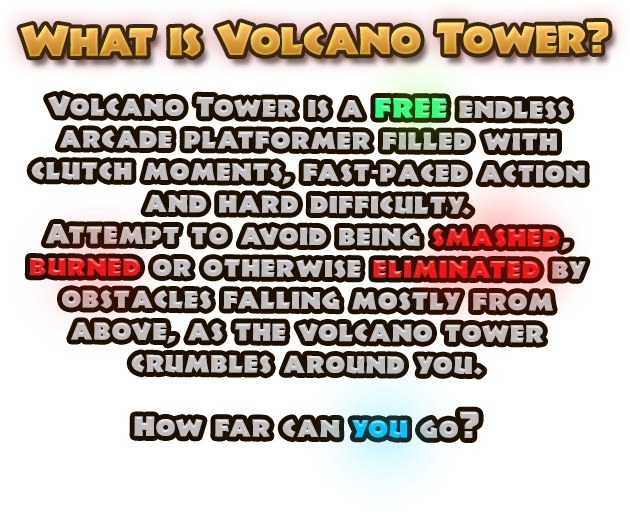
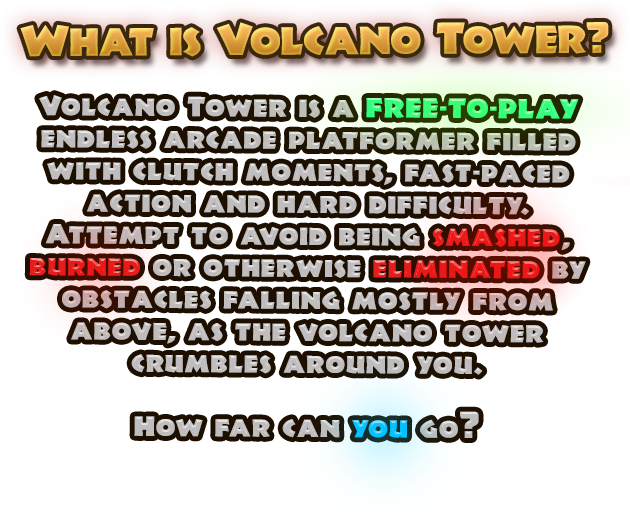
Update site
Add social links
Update text
Replace badges (temporarily) with 'coming soon'.

Changed region(s): [[0.0302, 0.1536, 0.9349, 0.4299]]

diff --git a/index.html b/index.html
@@ -1,13 +1,21 @@
 <!DOCTYPE html>
 <html>
+<head>
 <link rel="stylesheet" type="text/css" href="style.css">
+<meta name="viewport" content="width=800, initial-scale=1">
+</head>
 <body align="center">
 <div class="all">
 
+<div id="comingsoon">
+<img src="comingsoon.png"/>
+</div>
+<!--
 <div id="badges">
 	<a target="_blank" href="https://itunes.apple.com/app/id1350250773"><img src="appstores_apple.png"/></a>
 	<a target="_blank" href="https://play.google.com/store/apps/details?id=com.retrom.volcano"><img src="appstores_android.png"/></a>
 </div>
+-->
 
 <div id="video">
 <img src="video_frame.png" id="frame">
@@ -17,6 +25,11 @@
 <div id="description">
 <img src="text_whatisvolcanotower.png"><br>
 <img src="screenshots.png">
+</div>
+<div id="social">
+	<a target="_blank" href="http://www.facebook.com/VolcanoTower/"><img src="icons_facebook.png"/></a>
+	<a target="_blank" href="http://twitter.com/UglyCakeGames"><img src="icons_twitter.png"/></a>
+	<a target="_blank" href="http://www.instagram.com/uglycakegames/"><img src="icons_instagram.png"/></a>
 </div>
 
 </div>

diff --git a/style.css b/style.css
@@ -1,5 +1,5 @@
 body {
-  	background: #000000 url("bg.jpg") repeat-y center top;
+  	background: #000000 url("bg.jpg") no-repeat center top;
 	align: center;
 }
 
@@ -19,13 +19,22 @@ div#badges {
 	margin-top: 270px;
 }
 
+
 #badges img {
 	margin: 14px
 }
 
+div#comingsoon {
+	margin-top: 240px;
+}
+
+#comingsoon img {
+	margin: 20px
+}
+
 div#video {
 	align: left;
-	margin-top: 90px;
+	margin-top: 40px; #90px;
 }
 
 #frame {
@@ -37,6 +46,10 @@ div#video {
 }
 
 div#description {
-	margin-top: 90px;
+	margin-top: 70px;
 	height: 1080px;
+}
+
+#social img {
+	margin: 5px
 }
